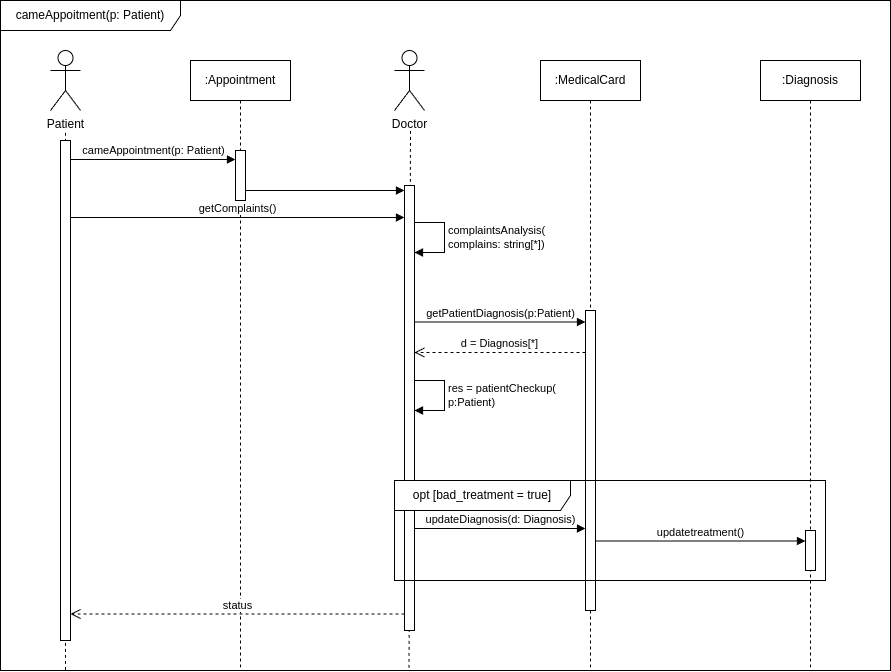
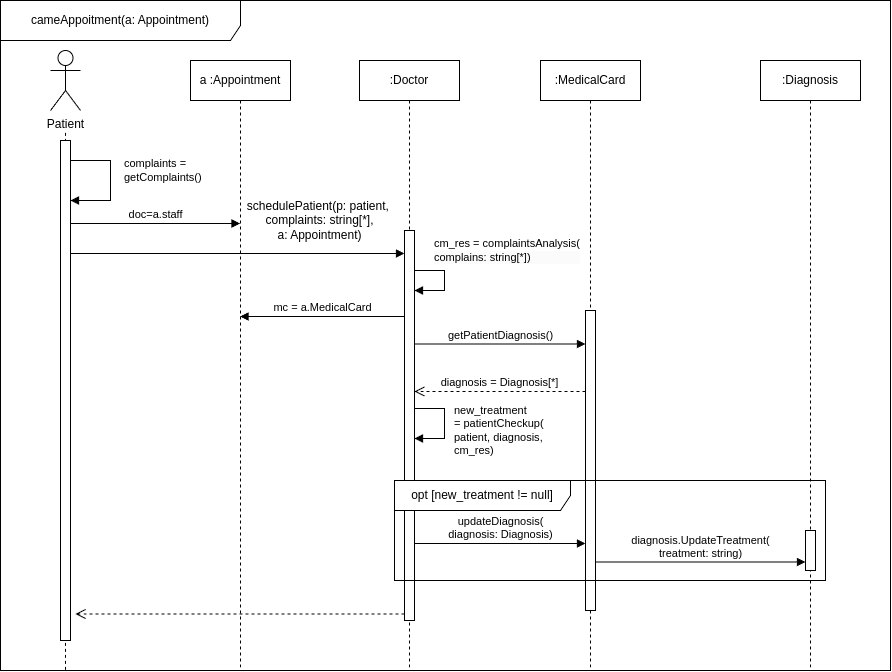
fix

diff --git a/lab2/classes.cs b/lab2/classes.cs
@@ -2,6 +2,12 @@ using System;
 using System.Collections.Generic;
 using System.Linq;
 
+public bool compute(var entry, List<DateTime> datetimes)
+{
+    // Заглушка функции, возвращающая значение по умолчанию
+    return false;
+}
+
 public class Hospital
 {
     public string Name { get; set; }
@@ -64,34 +70,28 @@ public class Reception
         Appointments = new List<Appointment>();
     }
 
-    public void ScheduleAppointment(Patient p, string complaints, DateTime datetime)
+    public void ScheduleAppointment(Patient p, string complaints, List<DateTime> datetimes)
     {
         Department dep = ChooseDepartment(complaints);
-        if (dep == null)
-        {
-            throw new InvalidOperationException("No suitable department found.");
-        }
 
         List<MedicalWorker> staff = dep.GetStaff();
         MedicalWorker selectedWorker = null;
-
+        
         foreach (var worker in staff)
-        {
-            if (worker.CheckAvailability(new List<DateTime> { datetime }))
+        {     
+            var entry = worker.CheckAvailability(datetimes);
+            if (entry != null)
             {
                 selectedWorker = worker;
-                worker.ScheduleAppointment(new Appointment(datetime, p));
-                worker.ShowWH().UpdateSchedule(worker, datetime.Date, datetime.Date, datetime.TimeOfDay, datetime.TimeOfDay.Add(TimeSpan.FromHours(1)));
+                
+                Appointment a = new Appointment(p, entry, worker);
+                
+                Appointments.Add(a);
+
+                worker.ShowWH().UpdateSchedule(entry, worker);
                 break;
             }
         }
-
-        if (selectedWorker == null)
-        {
-            throw new InvalidOperationException("No available medical worker found.");
-        }
-
-        Appointments.Add(new Appointment(datetime, p));
     }
 
     private Department ChooseDepartment(string complaints)
@@ -118,7 +118,7 @@ public class Reception
 
     public List<Appointment> GetAppointments(Patient p)
     {
-        return Appointments.Where(a => a.Patient == p).ToList();
+        // Реализация
     }
 }
 
@@ -138,44 +138,17 @@ public class Patient
         Appointments = new List<Appointment>();
     }
 
-    public void CameAppointment()
+    public void CameAppointment(Appointment a)
     {
-        if (Appointments.Count == 0)
-        {
-            throw new InvalidOperationException("No appointments found for the patient.");
-        }
-
-        var appointment = Appointments.Last();
-        var staff = appointment.Staff;
-        var doctor = staff.OfType<Doctor>().FirstOrDefault();
-
-        if (doctor == null)
-        {
-            throw new InvalidOperationException("No doctor found in the appointment.");
-        }
-
+        // Пациент вызывает жалобы у себя
         var complaints = GetComplaints();
-        var res = doctor.ComplaintsAnalysis(complaints);
 
-        var mc = appointment.Mc;
-        var diagnoses = mc.GetPatientDiagnosis(this);
-
-        var badTreatment = doctor.PatientCheckup(this);
-
-        if (badTreatment)
-        {
-            var diagnosis = diagnoses.FirstOrDefault();
-            if (diagnosis != null)
-            {
-                diagnosis.UpdateTreatment("Updated Treatment");
-                mc.UpdateDiagnosis(diagnosis);
-            }
-            else
-            {
-                throw new InvalidOperationException("No valid diagnosis found.");
-            }
-        }
-    }
+        // Пациент из фильма Идиократия, поэтому он обращается к датаклассу appointment и только тогда понимает кто его доктор
+        var doc = a.Staff;
+        
+        // Вызываем у доктора метод "обслужить" пациента 
+        doc.schedulePatient(this, complaints, a)
+    } 
 
     public List<string> GetComplaints()
     {
@@ -195,11 +168,12 @@ public class Appointment
     public Patient Patient { get; set; }
     public MedicalCard Mc { get; set; }
 
-    public Appointment(DateTime date, Patient patient)
+    public Appointment(Patient patient, DateTime date, MedicalWorker worker)
     {
         Date = date;
         Patient = patient;
-        Staff = new List<MedicalWorker>();
+        Staff = worker;
+        Mc = patient.Mc;
     }
 }
 
@@ -224,20 +198,17 @@ public class MedicalWorker
         return WorkingHours;
     }
 
-    public bool CheckAvailability(List<DateTime> datetimes)
+    public ScheduleEntry CheckAvailability(List<DateTime> datetimes)
     {
         var timesheets = WorkingHours.getSchedule(this);
-        for (int i = 0; i < timesheets.Count; i++)
+        foreach (var entry in timesheets)
         {
-            var entry = timesheets[i];
-            if (datetimes.Any(datetime => 
-                entry.StartDate <= datetime && entry.EndDate >= datetime &&
-                entry.StartTime <= datetime.TimeOfDay && entry.EndTime >= datetime.TimeOfDay))
+            if (compute(entry, datetimes))
             {
-                return true;
+                return entry;
             }
         }
-        return false;
+        return null;
     }
 }
 
@@ -270,15 +241,16 @@ public class Doctor : MedicalWorker
         Specialization = specialization;
     }
 
-    public void ComplaintsAnalysis(List<string> complaints)
+    public string ComplaintsAnalysis(List<string> complaints)
     {
         // Реализация
+        return "Analysis Result"; // Заглушка
     }
 
-    public bool PatientCheckup(Patient p)
+    public string PatientCheckup(Patient patient, List<Diagnosis> diagnosis, string complaintsAnalysisRes)
     {
         // Реализация
-        return false; // Заглушка
+        return "New Treatment"; // Заглушка
     }
 
     public void AddDiagnosis(MedicalCard medicalCard)
@@ -290,7 +262,24 @@ public class Doctor : MedicalWorker
     {
         // Реализация
     }
+
+    public void SchedulePatient(Patient patient, List<string> complaints, Appointment appointment)
+    {
+        var cm_res = this.ComplaintsAnalysis(complaints);
+
+        var mc = appointment.Mc;
+        
+        var diagnosis = mc.GetPatientDiagnosis(); 
+
+        var new_treatment = this.PatientCheckup(patient, diagnosis, cm_res);
+
+        if (new_treatment != null)
+        {
+            mc.UpdateDiagnosis(diagnosis.First(), new_treatment);
+        }
+    }
 }
+
 
 public class ScheduleEntry
 {
@@ -301,6 +290,7 @@ public class ScheduleEntry
     public TimeSpan EndTime { get; set; }
 }
 
+
 public class TimeSheet
 {
     public List<ScheduleEntry> se { get; set; }
@@ -310,56 +300,27 @@ public class TimeSheet
         se = new List<ScheduleEntry>();
     }
 
-    public void CreateSchedule(MedicalWorker m, DateTime startDate, DateTime endDate, TimeSpan startTime, TimeSpan endTime)
+    public void CreateSchedule(MedicalWorker m, DateTime date)
     {
-        se.Add(new ScheduleEntry
-        {
-            Worker = m,
-            StartDate = startDate,
-            EndDate = endDate,
-            StartTime = startTime,
-            EndTime = endTime
-        });
-    }    public bool CheckAvailability(List<DateTime> datetimes)
-    {
-        var timesheets = WorkingHours.getSchedule(this);
-        for (int i = 0; i < timesheets.Count; i++)
-        {
-            var entry = timesheets[i];
-            if (datetimes.Any(datetime => 
-                entry.StartDate <= datetime && entry.EndDate >= datetime &&
-                entry.StartTime <= datetime.TimeOfDay && entry.EndTime >= datetime.TimeOfDay))
-            {
-                return true;
-            }
-        }
-        return false;
+        // Реализация
     }
 
-    public void UpdateSchedule(MedicalWorker m, DateTime startDate, DateTime endDate, TimeSpan startTime, TimeSpan endTime)
+    public void UpdateSchedule(DateTime date, MedicalWorker m)
     {
-        var entry = se.FirstOrDefault(e => e.Worker == m && e.StartDate == startDate && e.EndDate == endDate);
-        if (entry != null)
-        {
-            entry.StartTime = startTime;
-            entry.EndTime = endTime;
-        }
+        // Реализация
     }
 
     public void DeleteSchedule(MedicalWorker m, DateTime startDate, DateTime endDate)
     {
-        var entry = se.FirstOrDefault(e => e.Worker == m && e.StartDate == startDate && e.EndDate == endDate);
-        if (entry != null)
-        {
-            se.Remove(entry);
-        }
+        // Реализация
     }
 
     public List<ScheduleEntry> getSchedule(MedicalWorker m)
     {
-        return se.Where(e => e.Worker == m).ToList();
+        // Реализация
     }
 }
+
 
 public class MedicalCard
 {
@@ -374,16 +335,17 @@ public class MedicalCard
         DiagnosisList = new List<Diagnosis>();
     }
 
-    public List<Diagnosis> GetPatientDiagnosis(Patient p)
+    public List<Diagnosis> GetPatientDiagnosis()
     {
         return DiagnosisList;
     }
 
-    public void UpdateDiagnosis(Diagnosis d)
+    public void UpdateDiagnosis(Diagnosis d, string treatment)
     {
-        // Реализация
+        d.UpdateTreatment(treatment);
     }
 }
+
 
 public class Diagnosis
 {
